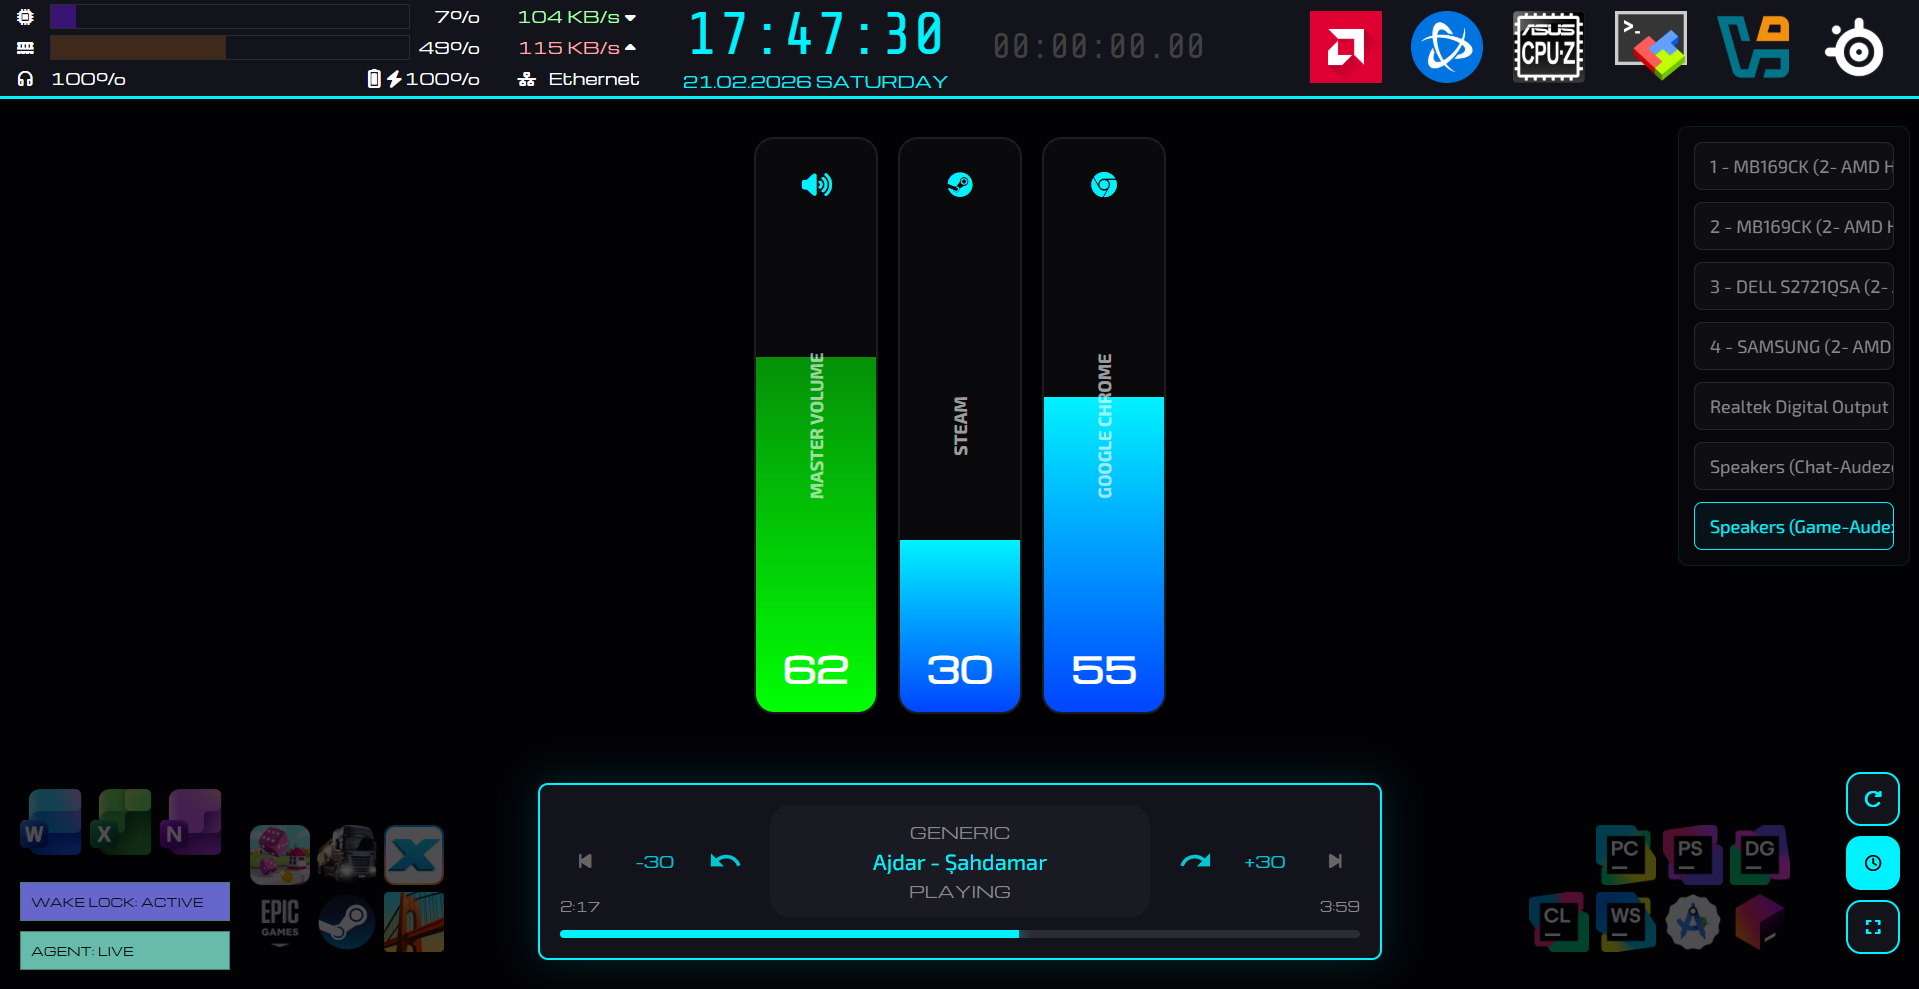
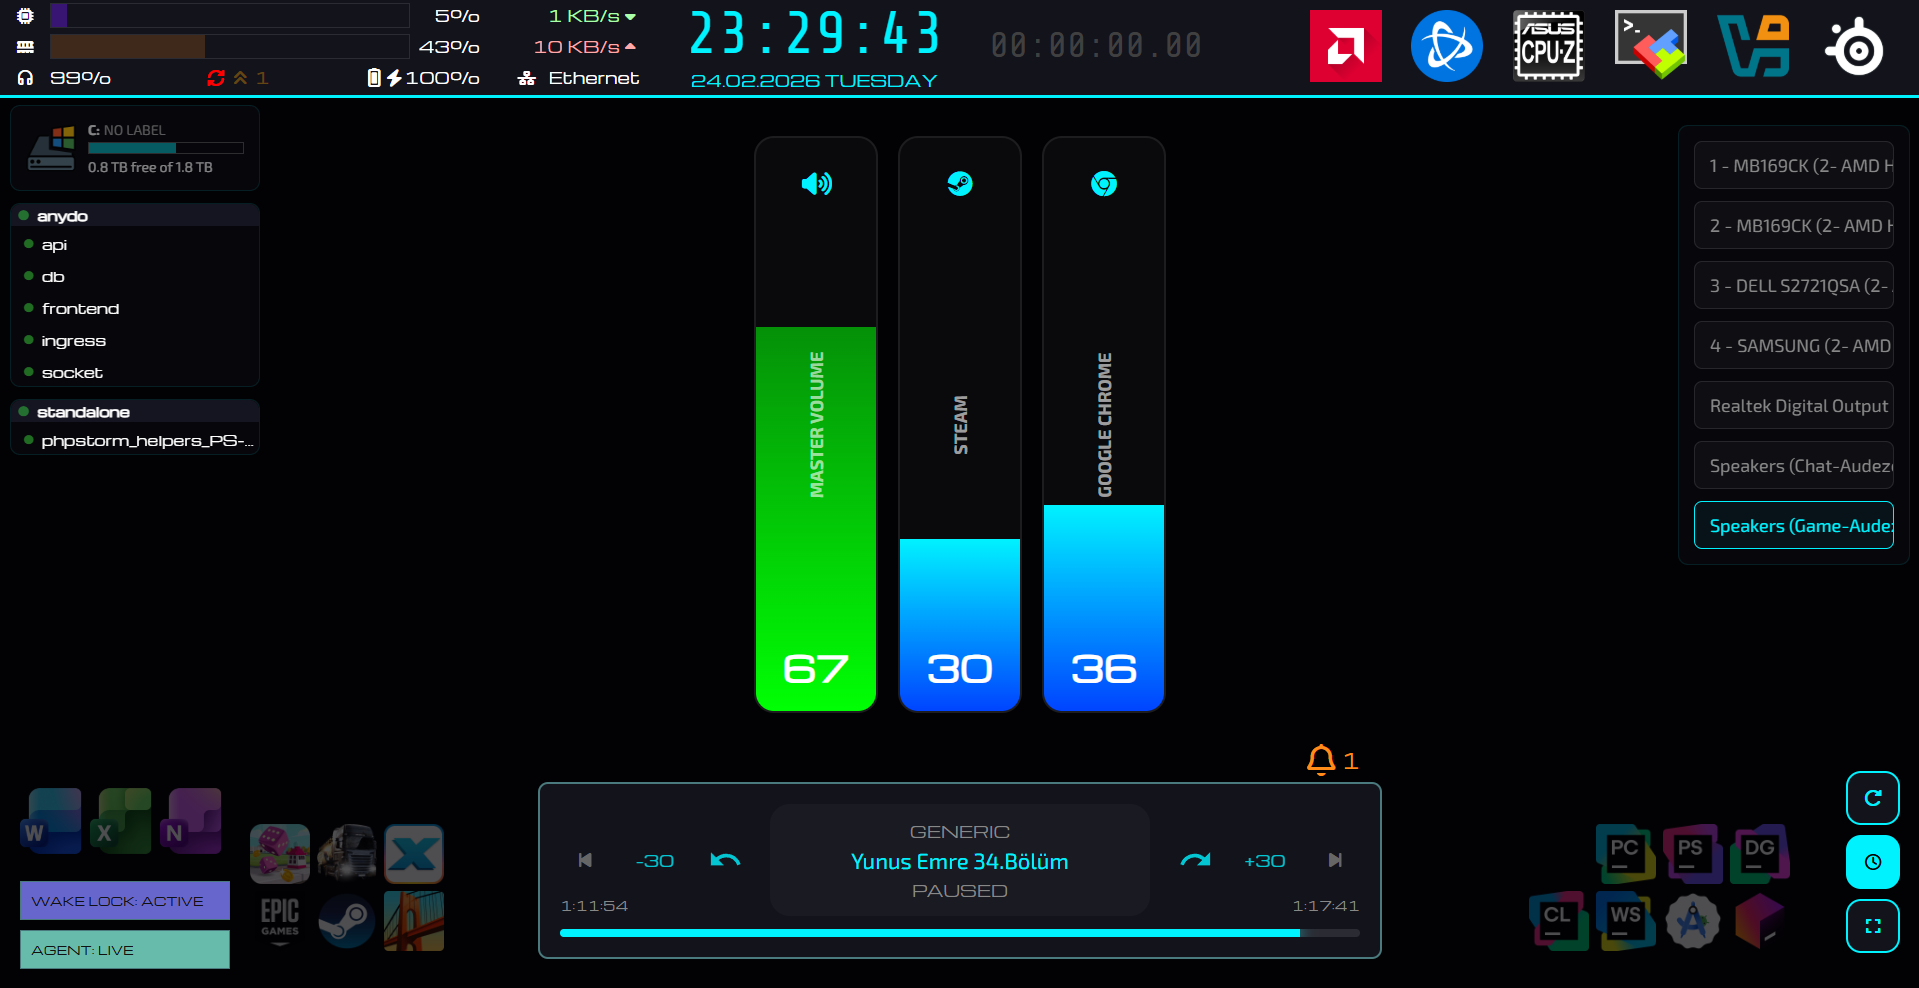
Update ss

diff --git a/plugins/restartwatcher/Plugin.cpp b/plugins/restartwatcher/Plugin.cpp
@@ -15,7 +15,7 @@ using namespace restartwatcher;
 static WaPluginInfo INFO{
     WA_PLUGIN_API_VERSION,
     "restartwatcher",
-    "restartwatcher",
+    "Restart Watcher",
     "Tracks whether Windows currently requires a restart (updates/servicing/pending operations).",
     60 * 1000
 };
